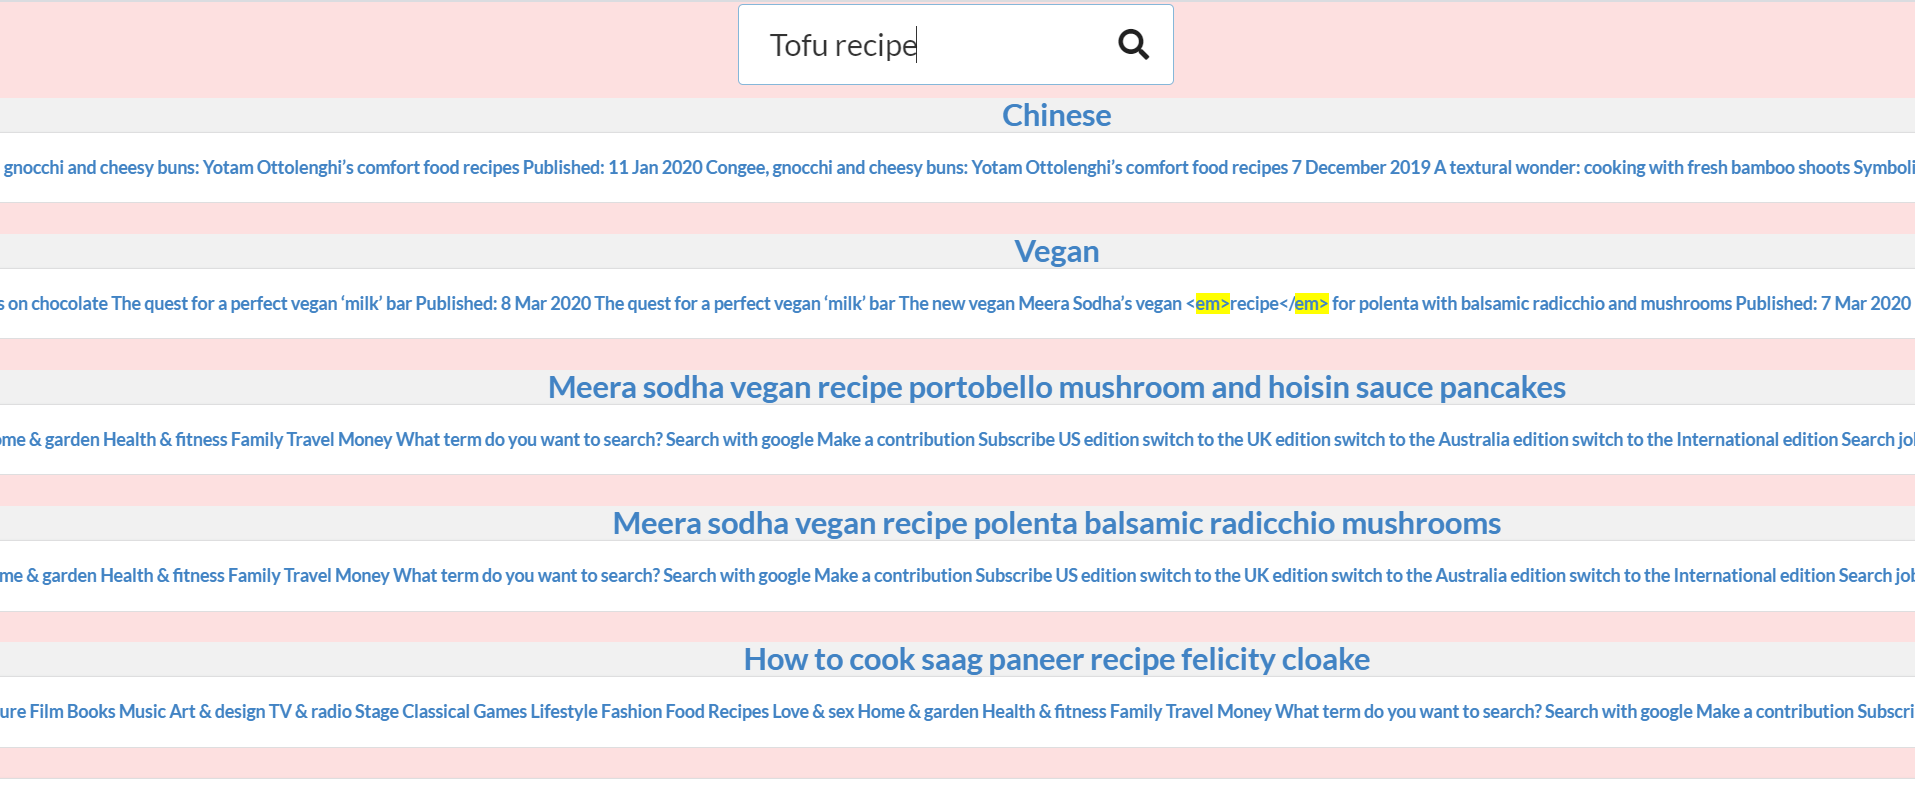
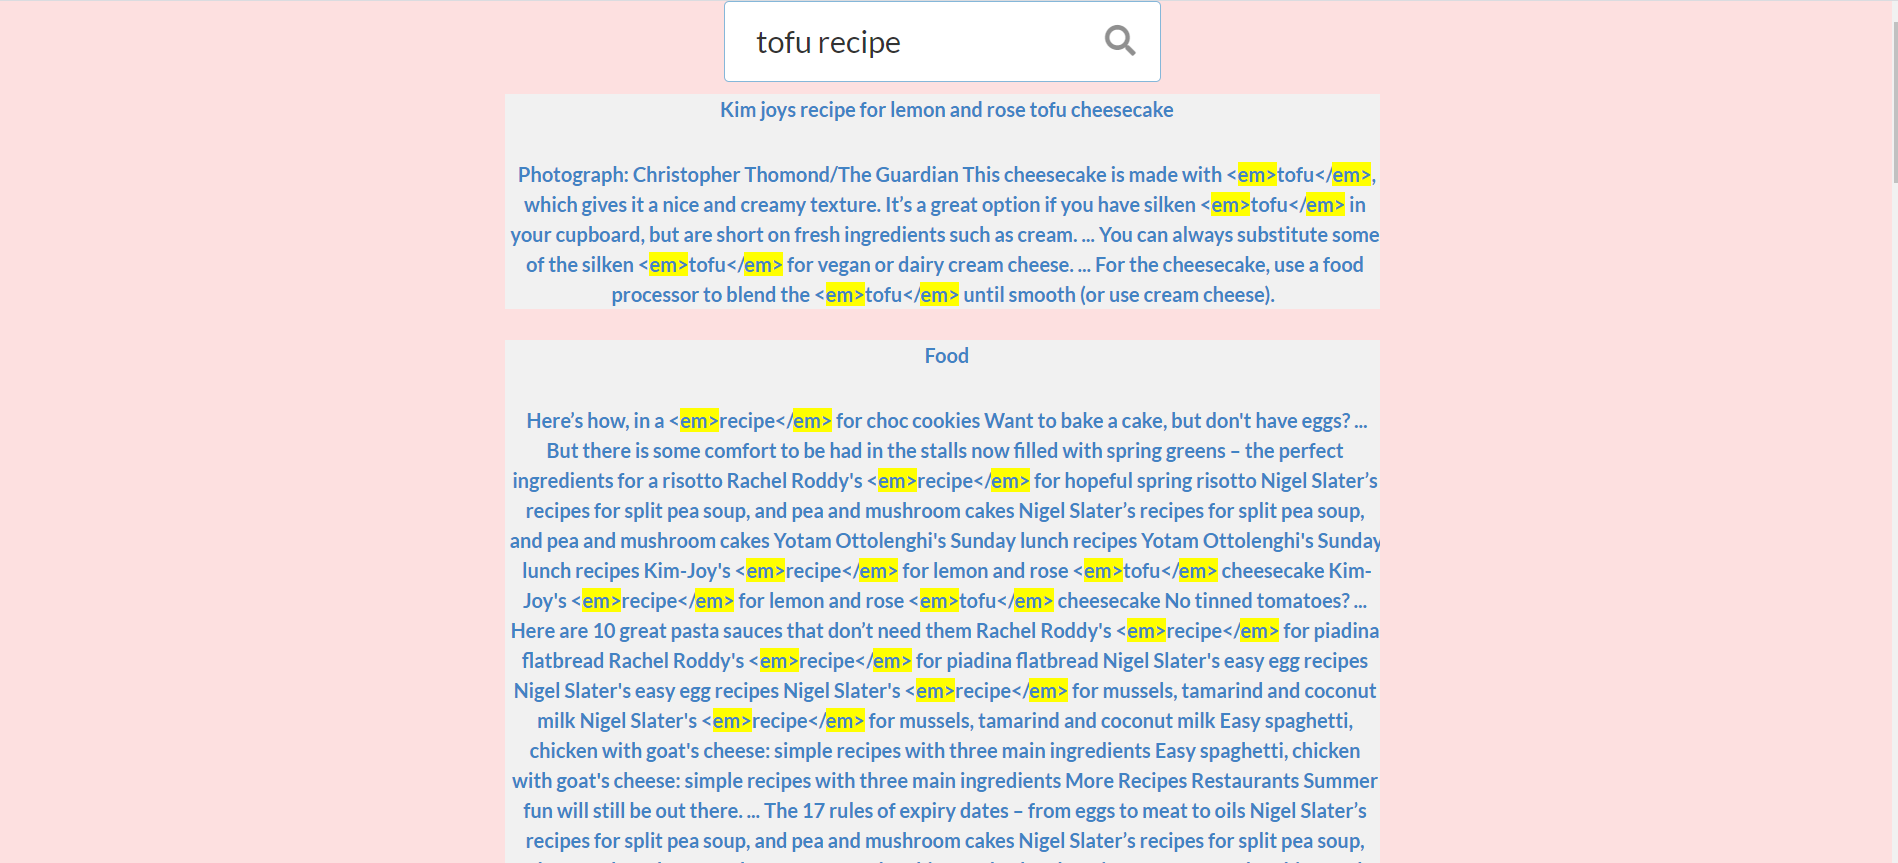
added new css style for UI

diff --git a/user-interface/src/component/result-item/index.js b/user-interface/src/component/result-item/index.js
@@ -1,18 +1,15 @@
 import React from "react";
-import { Grid, It } from 'semantic-ui-react'
+import {Container, Divider} from 'semantic-ui-react'
 import './style.scss'
-import List from "semantic-ui-react/dist/commonjs/elements/List";
-import Segment from "semantic-ui-react/dist/commonjs/elements/Segment";
-
 
 export default class ResultItem extends React.Component {
 
-    getHighlightedText(text, highlight) {
+    getHighlightedText(text, highlightStart) {
         // Split on highlight term and include term into parts, ignore case
-        if( text !== undefined && text.length > 0) {
-            const parts = text.split(new RegExp(`(${highlight})`, 'gi'));
+        if (text !== undefined && text.length > 0) {
+            const parts = text.split(new RegExp(`(${highlightStart})`, 'gi'));
             return <span> {parts.map((part, i) =>
-                                         <span key={i} style={part === highlight ? {
+                                         <span key={i} style={part === highlightStart ? {
                                              fontWeight: 'bold',
                                              background: 'yellow',
                                              fontsize: 14
@@ -20,27 +17,20 @@ export default class ResultItem extends React.Component {
             {part}
         </span>)
             } </span>;
-        } else{
-            return  <span>text</span>
+        } else {
+            return <span>text</span>
         }
     }
 
     render() {
         return (
-                <List.Item>
-                <List.Content>
-                    <List.Header as='a'><a href={this.props.url}>
-                        {this.getHighlightedText(this.props.title, 'em>')}</a>
-                    </List.Header>
-                    <List.Description>
-                        <Segment textAlign='center' className={'text-style'}>
-                            <a href={this.props.url}>
-                                {this.getHighlightedText(this.props.highlights.content[0],'em>')}
-                            </a>
-                        </Segment>
-                    </List.Description>
-                </List.Content>
-            </List.Item>
+            <Container text><a href={this.props.url}>
+                    {this.getHighlightedText(this.props.title, 'em>')}</a>
+                <Divider horizontal/>
+                <a href={this.props.url} style={{'white-space': 'pre-wrap'}}>
+                    {this.getHighlightedText(this.props.highlights.content[0], 'em>')}
+                </a>
+                </Container>
         )
     }
 

diff --git a/src/solr/webcrawler/WebSpider.java b/src/solr/webcrawler/WebSpider.java
@@ -51,15 +51,6 @@ public class WebSpider {
             // changes to make sure url is relevant.
             final URL discoveredURL = new URL(urlText);
             String urlPath = discoveredURL.toString().toLowerCase();
-            /*if(!(urlPath.indexOf("facebook") != -1 || urlPath.indexOf("twitter") != -1 ||
-                    urlPath.contains("support.theguardian.com") || urlPath.indexOf("preference") != -1 ||
-                    urlPath.indexOf("subscription") != -1 || urlPath.indexOf("subscribe") != -1 ||
-                    urlPath.indexOf("signin") != -1 || urlPath.indexOf("signout") != -1 ||
-                    urlPath.indexOf("manage") != -1 || urlPath.indexOf("#maincontent") != -1 ||
-                    urlPath.indexOf("contributions") != -1 || urlPath.indexOf("commentisfree") != -1||
-                    urlPath.indexOf("theguardian.newspapers.com") != -1) || urlPath.indexOf("privacystatement") != -1
-            || urlPath.indexOf("about-guardian-us") != -1 || urlPath.contains("profile.theguardian.com") ||
-            urlPath.indexOf("www.google.co.uk")!= -1) */
             if(!urlPath.contains("facebook") && (urlPath.contains("travel") ||
                     urlPath.contains("food") || urlPath.contains("world") || urlPath.contains("recipes"))){
               newURLS.add(discoveredURL.toString());
